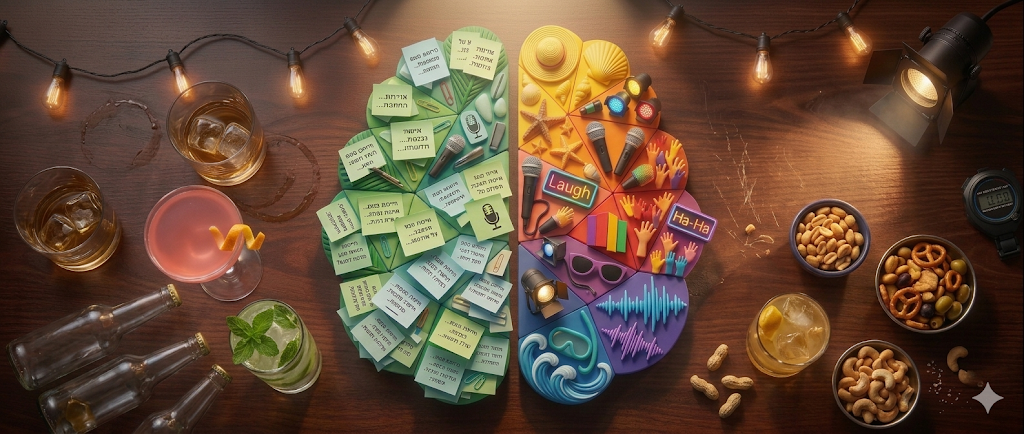
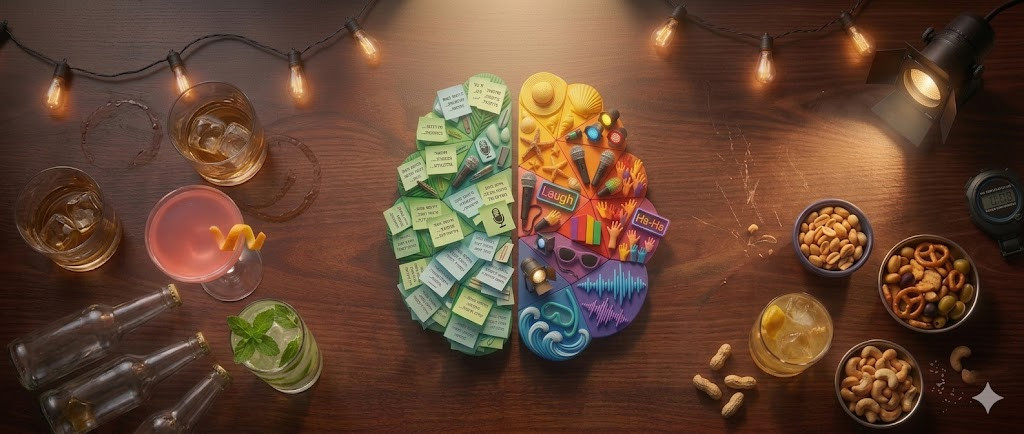
Fix mobile hero layout, ship Gemini key, and update comedy art.
Hide duplicate year label on mobile navbar, keep hero byline clear of the logo, commit .env.production for GitHub Pages builds, and refresh the mystery-guest hero image.

diff --git a/src/components/Hero.tsx b/src/components/Hero.tsx
@@ -259,14 +259,14 @@ export default function Hero() {
         initial={{ opacity: 0, y: -8 }}
         animate={{ opacity: 1, y: 0 }}
         transition={{ duration: 0.7, delay: 0.1 }}
-        className="relative z-10 shrink-0 max-w-6xl w-full mx-auto px-5 sm:px-8 pt-8 sm:pt-16"
+        className="relative z-10 shrink-0 max-w-6xl w-full mx-auto px-5 sm:px-8 pt-14 sm:pt-16"
         dir="rtl"
       >
         <div className="flex items-baseline gap-3">
           <div className="h-px flex-1 bg-tafnit-mint-300/70" />
         </div>
 
-        <div className="mt-1 sm:mt-1.5 font-display italic text-tafnit-mint-300 drop-shadow-[0_1px_4px_rgba(0,0,0,0.5)] text-center sm:text-start">
+        <div className="mt-1 sm:mt-1.5 font-display italic text-tafnit-mint-300 drop-shadow-[0_1px_4px_rgba(0,0,0,0.5)] text-end sm:text-start ps-24 sm:ps-0 max-w-[calc(100%-6rem)] sm:max-w-none">
           <span className="sm:hidden text-[11px] leading-snug tracking-normal">
             {t("families_byline_mobile_1")}
             <br />

diff --git a/src/components/Navbar.tsx b/src/components/Navbar.tsx
@@ -66,7 +66,7 @@ export default function Navbar() {
               <span className="sm:hidden">{t("brand_short")}</span>
             </span>
             <span
-              className={`font-display text-xs sm:text-sm font-semibold ${
+              className={`hidden sm:inline font-display text-xs sm:text-sm font-semibold ${
                 scrolled ? "text-tafnit-mint-700" : "text-tafnit-mint-300 drop-shadow-[0_1px_3px_rgba(0,0,0,0.45)]"
               }`}
             >
